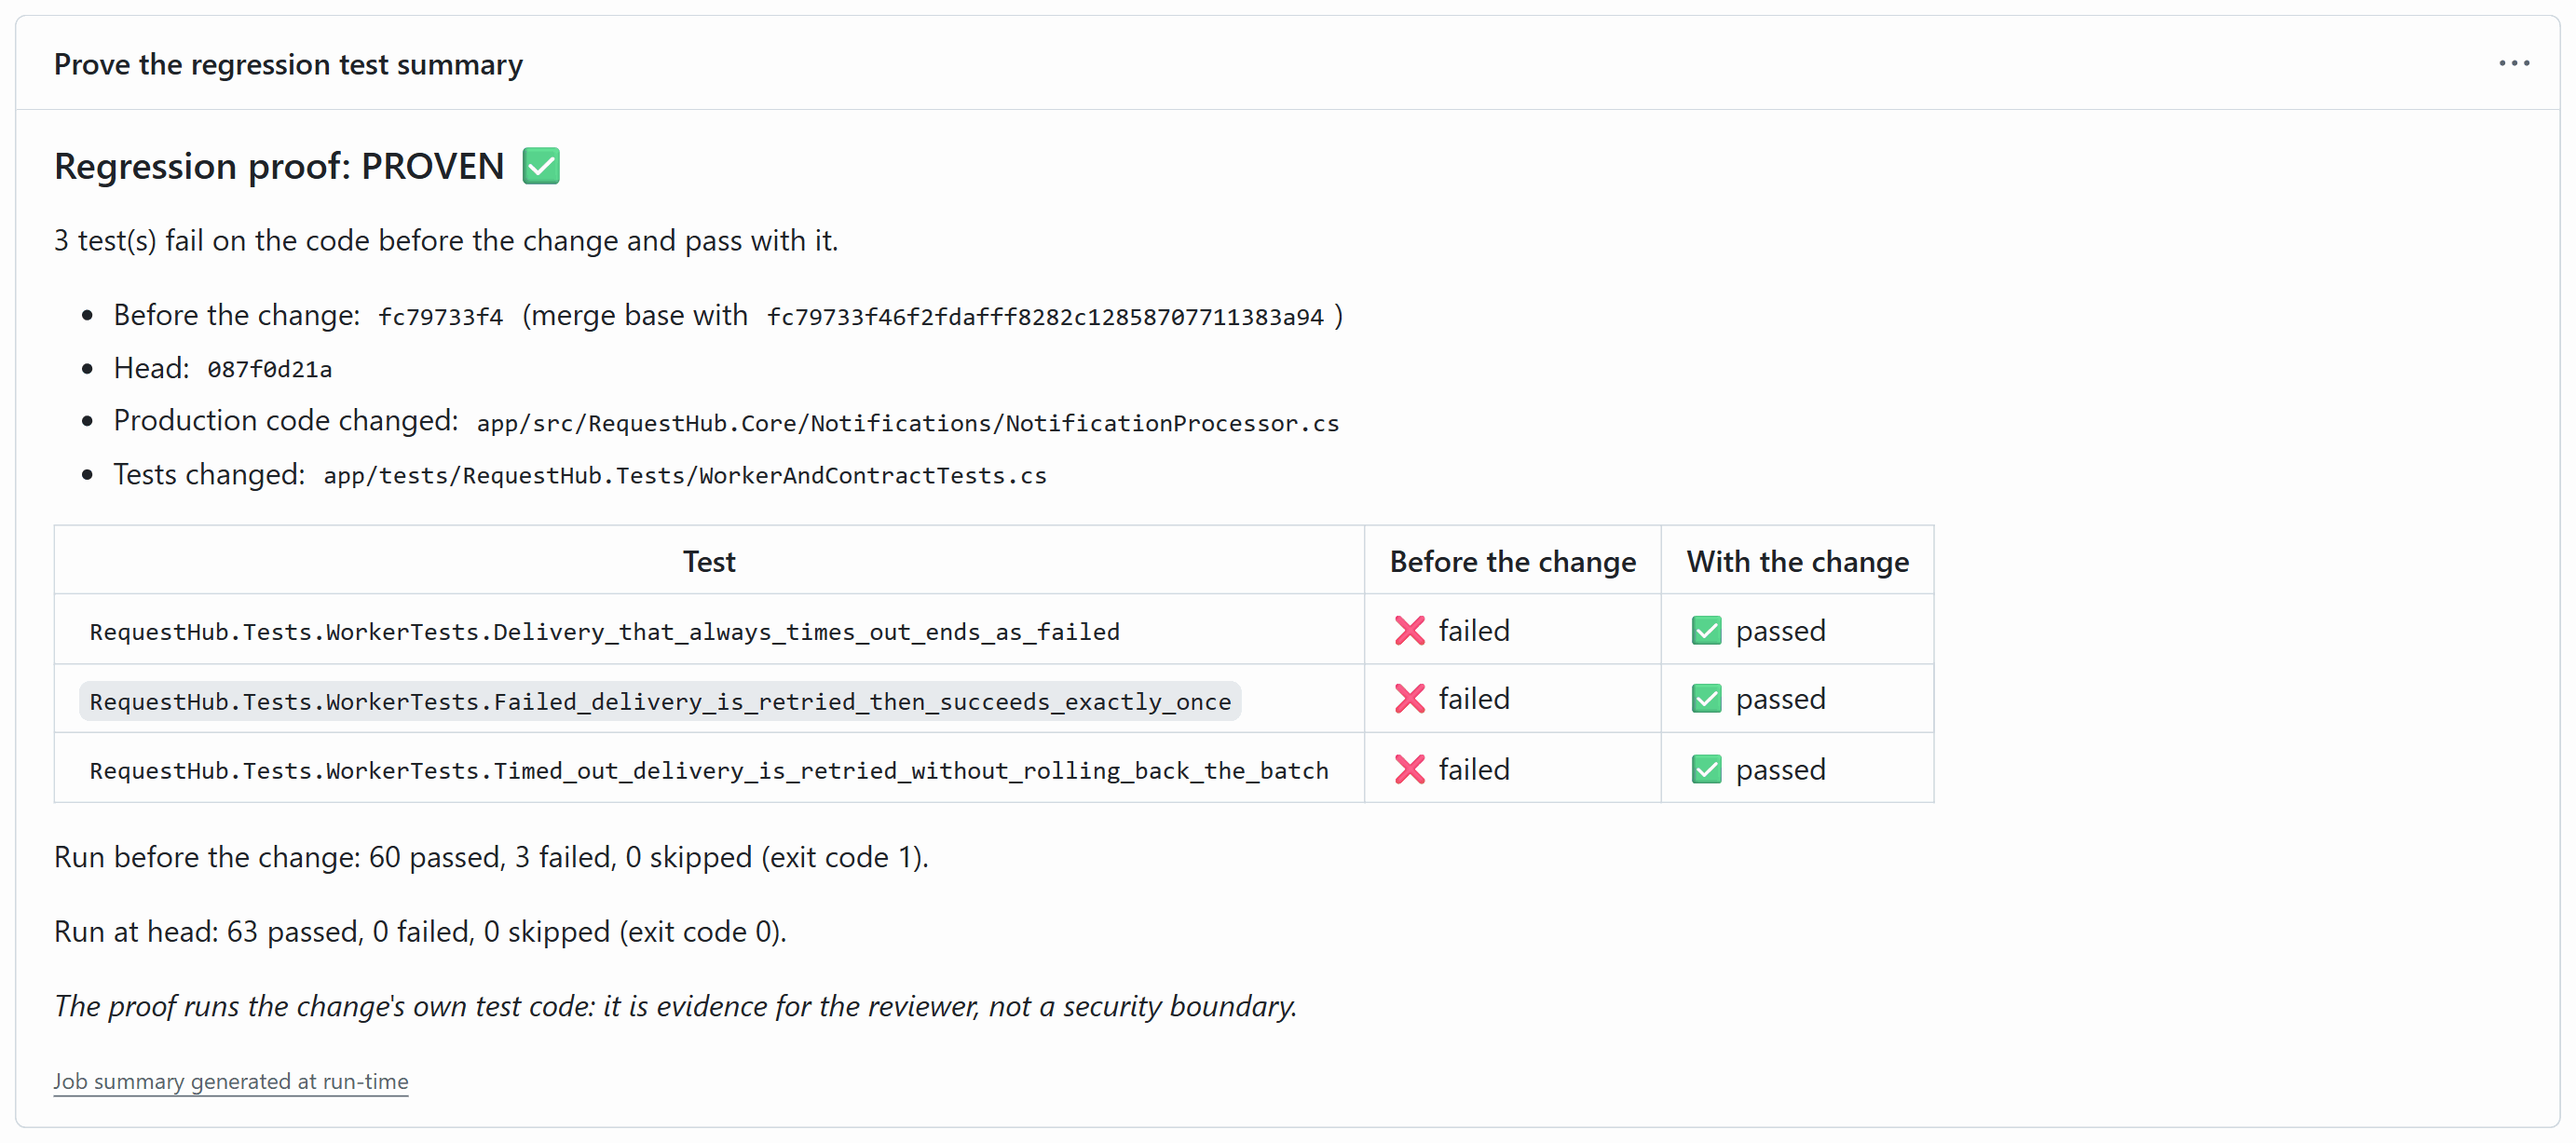
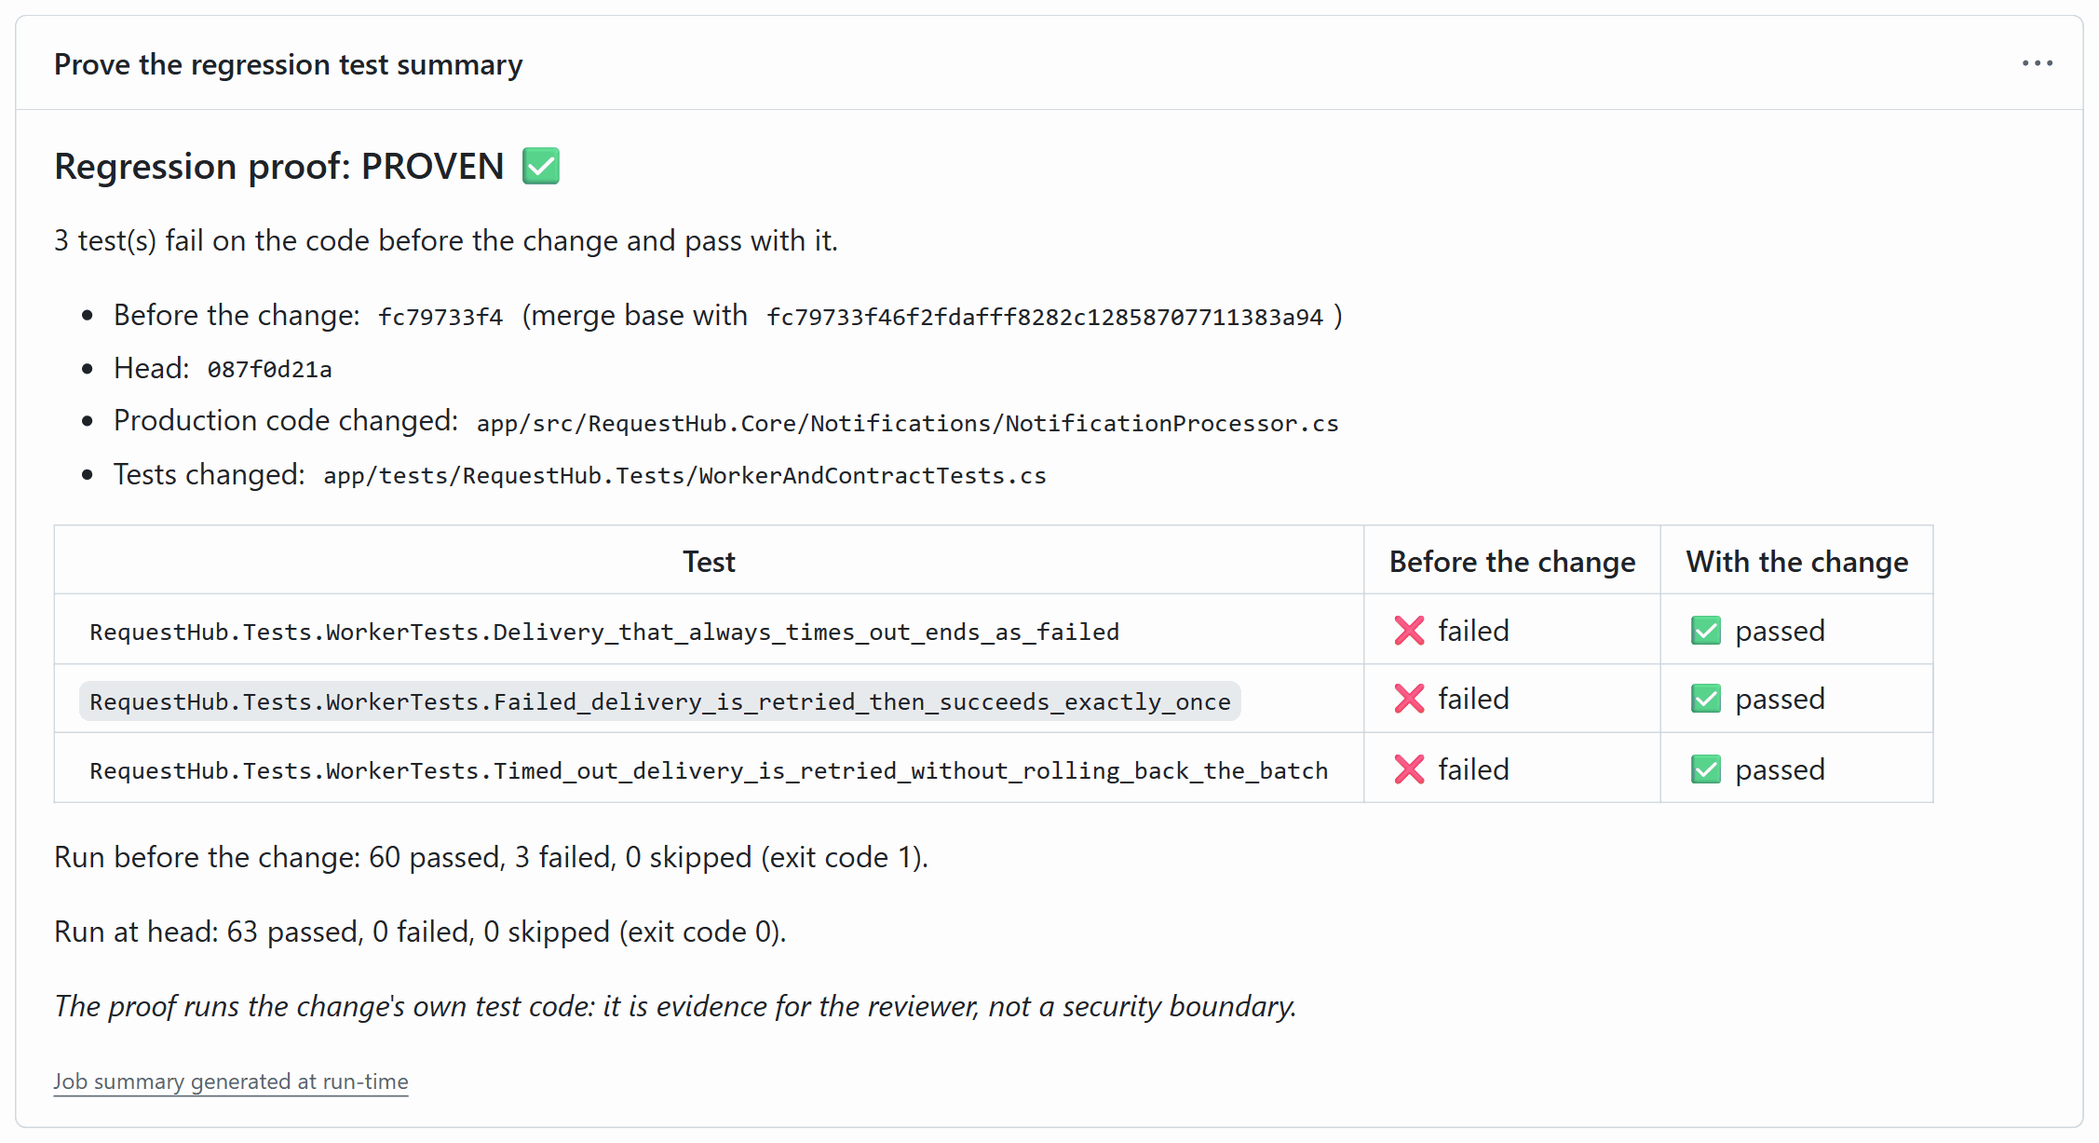
07-operate-github: say exactly what the regression proof shows
Two of Copilot's three new tests fail on the old code and pass with the fix; the cancellation test is a guard that passes on both, and the third row is an existing test broken by leftover rows in the shared test database. Copilot's summary said all three new tests failed, so step 7 now makes that a review point. Also: the triage run caption no longer relies on the unreadable job-graph labels, and the proof screenshot loses its empty right side.

diff --git a/solutions/07-operate-github/README.md b/solutions/07-operate-github/README.md
@@ -157,7 +157,7 @@ About 20 minutes. Each step says how long it takes in our runs.
    - `safe_outputs` applies what the agent asked for, within the limits set in the workflow's frontmatter: the labels, the follow-up as a sub-issue of the incident, and the comment.
    - `conclusion` updates the status comment with the result.
 
-   ![The triage run: six green jobs from pre_activation to conclusion, a total duration of 5m 49s, and the job graph with each job's time](images/02a-triage-run.png)
+   ![The triage run's summary page: six green jobs listed from pre_activation to conclusion, status Success, and a total duration of 5m 49s](images/02a-triage-run.png)
 
    **Point out:** the `agent` job can only read. Its requests reach the repository only through `safe_outputs`, after the `detection` job checked them, and only within the limits the workflow declares.
 
@@ -198,9 +198,9 @@ About 20 minutes. Each step says how long it takes in our runs.
      gh api -X POST "repos/$repo/issues/$followup/assignees" --input - --jq '[.assignees[].login] | join(", ")'
    ```
 
-   It prints `Copilot` and your login. Within seconds Copilot opens a draft pull request that will close the follow-up. In its timeline, select **View session** next to "Copilot started work" to watch Copilot work; the repository's **Agents** tab lists the same session. It reads the code and the tests, writes the tests and the one-line fix, and runs `prove_regression.py`, which shows the new tests failing on the old code and passing with the fix. Then it commits, pushes, and summarizes the change. To show which agent it used, open the **Running Copilot cloud agent** run under **Actions**: its log says `Selecting custom agent "operate-github"`.
+   It prints `Copilot` and your login. Within seconds Copilot opens a draft pull request that will close the follow-up. In its timeline, select **View session** next to "Copilot started work" to watch Copilot work; the repository's **Agents** tab lists the same session. It reads the code and the tests, writes the tests and the one-line fix, and runs `prove_regression.py` to see which tests fail on the old code and pass with the fix. Then it commits, pushes, and summarizes the change. Keep that summary in mind for step 7. To show which agent it used, open the **Running Copilot cloud agent** run under **Actions**: its log says `Selecting custom agent "operate-github"`.
 
-   ![Copilot's session for the follow-up, done in about 4 minutes: environment setup, four commands, a progress update, then Copilot's summary of the fix and the three new tests, with a note that the proof table also lists an existing test](images/05-copilot-session.png)
+   ![Copilot's session for the follow-up, done in about 4 minutes: environment setup, four commands, a progress update, then Copilot's summary: the fix, the three new tests, the claim that all three fail on the baseline, and a note that the proof table also lists an existing test](images/05-copilot-session.png)
 
    **Point out:** a handful of commands from Issue to proof (four in our run): read the code, read the tests, write the tests and the fix, run the proof. The `operate-github` agent holds Copilot to the rules a person would follow: test first, the smallest fix, and proof that the test catches the defect.
 
@@ -210,11 +210,15 @@ About 20 minutes. Each step says how long it takes in our runs.
 
    **Point out:** an agent's pull request runs nothing in Actions until a person with write access approves it.
 
-7. **Show the proof** (2 minutes; CI takes 3). Open the **Operate · GitHub · prove the regression test** check. Its summary reads `Regression proof: PROVEN`, with a table of the tests that fail on the code the pull request started from and pass with the change. The check is green only for PROVEN. **CI** confirms the whole suite passes. The table can also list an existing worker test: on the old code, a new timeout test leaves a stuck pending notification in the shared test database, which breaks that test. Copilot notes this in its pull request.
+7. **Show the proof** (2 minutes; CI takes 3). Open the **Operate · GitHub · prove the regression test** check. Its summary reads `Regression proof: PROVEN`, with a table of every test that fails on the code the pull request started from (run with the pull request's tests) and passes with the change. The check is green only for PROVEN. **CI** confirms the whole suite passes. In our run the table has three rows:
+   - Two of Copilot's three new tests, `Timed_out_delivery_is_retried_without_rolling_back_the_batch` and `Delivery_that_always_times_out_ends_as_failed`. They reproduce the defect.
+   - An existing test, `Failed_delivery_is_retried_then_succeeds_exactly_once`. On the old code, the new timeout tests leave stuck pending notifications in the shared test database, and those break an existing worker test that runs later. Which one varies between runs: in Copilot's own run it was `Delivery_gives_up_after_max_attempts`. On `main`, without the new tests, both pass.
 
-   ![The proof check's summary: Regression proof PROVEN; three tests fail on the code before the change and pass with it, and the suite goes from 60 passed and 3 failed before the change to 63 passed at the head](images/07-proof-check.png)
+   The third new test, `Cancelled_token_still_propagates`, is not in the table. It is a guard that passes on both: the old code already let a shutdown's cancellation through, and the fix must keep doing so.
 
-   **Point out:** the new tests failed without the fix. A test that has never failed proves nothing.
+   ![The proof check's summary: Regression proof PROVEN. Three tests fail on the code before the change and pass with it: the two new timeout tests and the existing Failed_delivery_is_retried_then_succeeds_exactly_once. 60 passed and 3 failed before the change; 63 passed at the head](images/07-proof-check.png)
+
+   **Point out:** trust the check, not the description. Copilot's summary in step 5 says all three new tests fail on the old code. The table shows two do, and so did Copilot's own proof run (expand the last **Run Bash command** in its session). A reviewer catches this in a minute because the evidence is attached.
 
 8. **Review the pull request** (2 minutes) as you would any other: small tests, a one-line fix, no weakened tests, and the proof attached. Open **Files changed**. The ⚠ 4 above the diff and the warning sign on the test file are CI's annotations for four analyzer warnings in the test file, all on lines the pull request did not change (the existing contract test).
 
@@ -241,7 +245,7 @@ Three safeguards respond, independently. The agent quotes the line under **Suspi
 - **Honest reasoning.** Facts, hypotheses, and missing evidence stay apart. Each hypothesis has a confidence level and points at the code that supports it, so people can check it quickly.
 - **Bounded automation.** The agentic workflow can only read, comment, apply allow-listed labels, and open one Issue. Only people with write access can trigger it, and it never opens a second follow-up for an incident while one is open. On the Copilot CLI path, the command is the boundary: `gh issue` commands and the two drafts, nothing else that needs approval. Within `gh issue`, the agent's instructions keep it to the commands the skill lists, which is why a person runs this path and watches the commands it prints.
 - **People decide.** A person chooses whether the follow-up goes to Copilot, approves the workflow runs, and reviews the pull request. Nothing merges by itself.
-- **Proof, not promises.** The check shows that the new test fails without the fix. A test that has never failed proves nothing.
+- **Proof, not promises.** The check shows which tests fail without the fix, whatever the pull request's description says. In our run it showed that Copilot's summary overstated its own proof. A test that has never failed proves nothing.
 
 ## Reset and clean up
 
